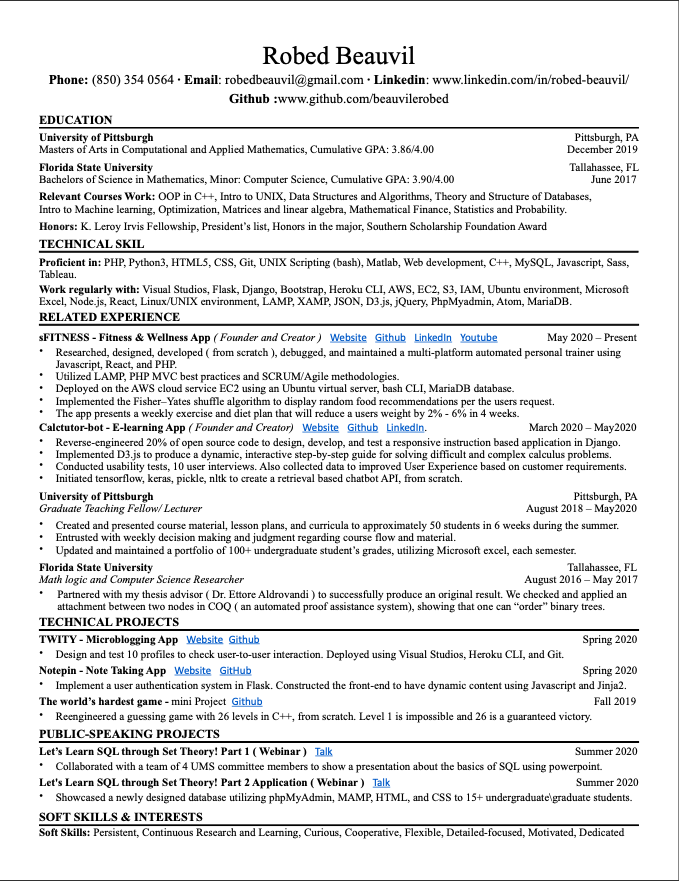
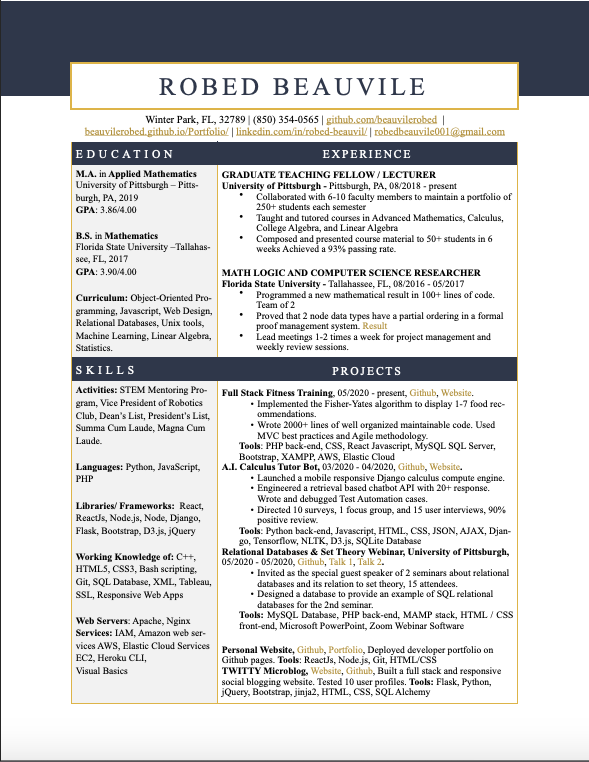
added new resume and fixed some bugs

diff --git a/src/Projects.js b/src/Projects.js
@@ -9,24 +9,24 @@ function Projects(props) {
         <div className="w3-row w3-animate-right container1">
         <div className="w3-half w3-black w3-container w3-center" style={{height: "700px"}}>
             <div className="w3-padding-64">
-            <h1>Robed Beauvile</h1>
+            <h1><strong>Robed Beauvile</strong></h1>
             <div id="container" className="container-fluid"></div>
             <h4>Welcome to my personal website</h4>
             </div>
             <div className="w3-padding-64 w3-animate-top">
-            <a href="#about" className="w3-button w3-black w3-block w3-hover-blue-grey w3-padding-16">About Me</a>
-            <a href="#work" className="w3-button w3-black w3-block w3-hover-light-grey w3-padding-16">Projects</a>
-            <a href="#resume" className="w3-button w3-black w3-block w3-hover-indigo w3-padding-16">Resume</a>
-            <a href="#contact" className="w3-button w3-black w3-block w3-hover-brown w3-padding-16">Contact</a>
-            <a href="#extracurricular" className="w3-button w3-black w3-block w3-hover-teal w3-padding-16">Extracurricular</a>
+            <a href="#about" className="w3-button w3-black w3-block w3-hover-light-grey w3-padding-16">About Me</a>
+            <a href="#work" className="w3-button w3-black w3-block w3-hover-blue-grey w3-padding-16">Projects</a>
+            <a href="#resume" className="w3-button w3-black w3-block w3-hover-light-grey w3-padding-16">Resume</a>
+            <a href="#contact" className="w3-button w3-black w3-block w3-hover-dark-grey w3-padding-16">Contact</a>
+            <a href="#extracurricular" className="w3-button w3-black w3-block w3-hover-brown w3-padding-16">Extracurricular</a>
             </div>
         </div>
-        <div className="w3-half w3-blue-grey w3-container" style={{height: "700px"}} id="about">
+        <div className="w3-half w3-light-grey w3-container" style={{height: "700px"}} id="about">
             <div className="w3-padding-64 w3-animate-left w3-center">
-            <h1>About Me</h1>
+            <h1><strong>About Me</strong></h1>
             <div className="w3-left-align w3-padding-large">
-                <p>Dedicated to using science, technology,  and mathematics to further the pursuit of knowledge  and impact as many people as possible.<p></p>
-                Robust background in logical thinking, complex problem solving, analytical thinking,  and a working knowledge of computer programming.</p>
+                <p>Dedicated to using science, technology,  and mathematics to further the pursuit of knowledge  and impact as many people as possible.</p>
+                <p>Robust background in logical thinking, complex problem solving, analytical thinking,  and a working knowledge of computer programming.</p>
                 <p>Ability to build  and maintain relationships, collaborate with others, engage in constructive conflict, manage interpersonal dynamics, quickly learn new systems,  and work in a fast-paced  and collaborative environment
                 </p>
             </div>
@@ -36,9 +36,9 @@ function Projects(props) {
 
         {/* /<!-- Second Grid: Work & Resume --> */}
         <div className="w3-row w3-animate-left container2">
-        <div className="w3-half w3-sand and w3-center" id="work">
+        <div className="w3-half w3-blue-grey and w3-center" id="work">
             <div className="w3-padding-64 w3-animate-right">
-                <h1>Projects</h1>
+                <h1><strong>Projects</strong></h1>
                     <Thumbnail 
                     link="http://sfitnessco.com"
                     image="./sFITNESS.jpg"
@@ -52,6 +52,7 @@ function Projects(props) {
                     Health  and fitness should not need to be difficult  and it should be sustainable."
                     category="PHP, MySQL, CSS, Javascript and phpMyAdmin, React, MAMP, Atom, Bootstrap, JSON"
                     />
+                    
 
                     <Thumbnail
                     link="https://calctutor123.herokuapp.com/"
@@ -97,7 +98,7 @@ function Projects(props) {
         </div>
         <div className="w3-half w3-brown w3-container w3-center" id="extracurricular">
             <div className="w3-padding-64 w3-animate-right">
-            <h1>Extra Extra... Read all about it!</h1>
+            <h1><strong>Extra Extra... Read all about it!</strong></h1>
             <br></br>
             <br></br>
             <br></br>
@@ -138,18 +139,18 @@ function Projects(props) {
         <div className="w3-row w3-animate-right container3" id="contact">
         <div className="w3-half w3-dark-grey w3-container w3-center">
             <div className="w3-padding-64 w3-animate-right">
-            <h1>Contact</h1>
+            <h1><strong>Contact</strong></h1>
             </div>
             <div className="w3-padding-64 w3-animate-left">
             <p>..for a cup of coffee, or whatever.</p>
             <p>Orlando, FL</p>
             <p>(850) 354-0565</p>
-            <p>robedbeauvil@gmail.com</p>
+            <p>robedbeauvile001@gmail.com</p>
             </div>
         </div>
-        <div className="w3-half w3-teal w3-container" id="resume">
+        <div className="w3-half w3-light-grey w3-container" id="resume">
         <div className="w3-padding-64 w3-animate-left w3-center">
-            <h2>Resume</h2>
+            <h1><strong>Resume</strong></h1>
                     <Thumbnail
                     link="https://github.com/beauvilerobed/Robed-Beauvile/blob/master/Robed%20Beauvil2.pdf"
                     image="./resume.png"
@@ -158,11 +159,6 @@ function Projects(props) {
             </div>
         </div>
         </div>
-
-        {/* <!-- Footer --> */}
-        <footer className="w3-container w3-black w3-padding-16">
-        <p>Powered by <a href="https://www.w3schools.com/w3css/default.asp" target="_blank">w3.css</a></p>
-        </footer> 
     </div>
   )
 }

diff --git a/public/index.html b/public/index.html
@@ -6,39 +6,16 @@
     <meta name="viewport" content="width=device-width, initial-scale=1" />
     <meta name="theme-color" content="#000000" />
     <link rel="stylesheet" href="https://www.w3schools.com/w3css/4/w3.css">
+    <link rel="shortcut icon" type="image/x-icon" href="favicon.ico">
     <meta
       name="description"
       content="Web site created using create-react-app"
     />
     <link rel="apple-touch-icon" href="%PUBLIC_URL%/logo192.png" />
-    <!--
-      manifest.json provides metadata used when your web app is installed on a
-      user's mobile device or desktop. See https://developers.google.com/web/fundamentals/web-app-manifest/
-    -->
     <link rel="manifest" href="%PUBLIC_URL%/manifest.json" />
-    <!--
-      Notice the use of %PUBLIC_URL% in the tags above.
-      It will be replaced with the URL of the `public` folder during the build.
-      Only files inside the `public` folder can be referenced from the HTML.
-
-      Unlike "/favicon.ico" or "favicon.ico", "%PUBLIC_URL%/favicon.ico" will
-      work correctly both with client-side routing and a non-root public URL.
-      Learn how to configure a non-root public URL by running `npm run build`.
-    -->
     <title>Robed Beauvile</title>
   </head>
   <body>
-    <noscript>You need to enable JavaScript to run this app.</noscript>
     <div id="root"></div>
-    <!--
-      This HTML file is a template.
-      If you open it directly in the browser, you will see an empty page.
-
-      You can add webfonts, meta tags, or analytics to this file.
-      The build step will place the bundled scripts into the <body> tag.
-
-      To begin the development, run `npm start` or `yarn start`.
-      To create a production bundle, use `npm run build` or `yarn build`.
-    -->
   </body>
 </html>

diff --git a/src/index.js b/src/index.js
@@ -1,7 +1,6 @@
 import React from 'react';
 import ReactDOM from 'react-dom';
 import './index.css';
-import App from './App';
 import * as serviceWorker from './serviceWorker';
 import Projects from './Projects';
 
@@ -11,8 +10,4 @@ ReactDOM.render(
   </React.StrictMode>,
   document.getElementById('root')
 );
-
-// If you want your app to work offline and load faster, you can change
-// unregister() to register() below. Note this comes with some pitfalls.
-// Learn more about service workers: https://bit.ly/CRA-PWA
 serviceWorker.unregister();

diff --git a/src/Thumbnail.js b/src/Thumbnail.js
@@ -6,9 +6,9 @@ function Thumbnail(props) {
     <div className="project">
       <a href={props.link}>
         <div className="project-image">
-          <img src={props.image} alt="Project Image"/>
+          <img src={props.image} alt="favicon-32x32.png"/>
         </div>
-        <div className="project-title">{props.title}
+        <div className="project-title"><strong>{props.title}</strong>
         <div className="project-category">{props.category}</div>
         </div>
             </a>
